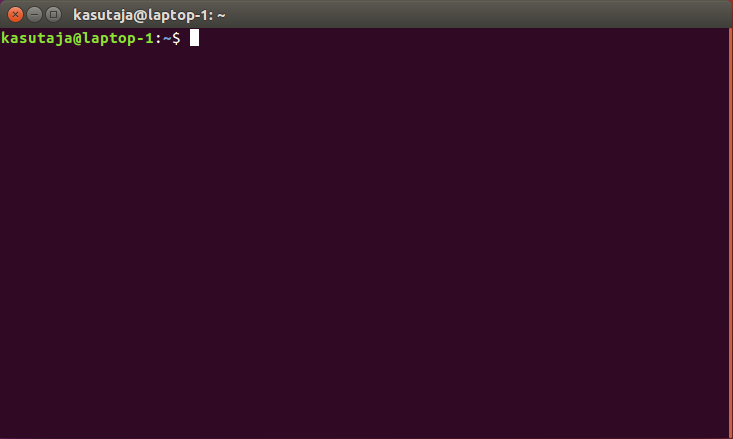
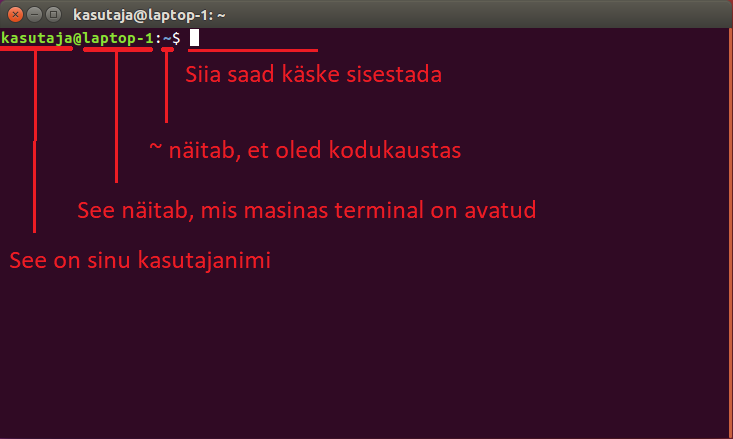
Updated lab1

diff --git a/source/labs/praktikum1.rst b/source/labs/praktikum1.rst
@@ -69,7 +69,7 @@ Kuidas kasutada Linuxit?
 
             ..
 
-    b.  Nüüd kasuta eelmises punktis *list*'i kohta õpitut, et näha, kas sinu tehtud kaust tekkis sinna. 
+    b.  Nüüd kasuta eelmises punktis *list*'i kohta õpitut, et näha, kas sinu tehtud kaust tekkis sinna.  Linuxis pääsed eelmiste käskude ligi ka kasutades üles noolt.
 
         .. figure:: ../images/lab01/image8.png
             :scale: 70 %
@@ -280,6 +280,9 @@ Kaugteel robotisse sisenemine (ssh)
 
     **Nüüdsest on see terminali aken ühenduses robotiga ja saame seal erinevaid programme käivitada.**
 
+    :red:`NB! Kuigi terminaliaken on avatud sülearvutis, siis tegelikult jooksutatakse siin sisestatud käske hoopis roboti peal, kus on samuti paigaldatud Ubuntu Linux. 
+    Seda on näha sellest, et rohelises kirjas olev arvutinimi on muutunud roboti nimeks.`
+
 Roboti ROS juhtprogrammi käivitamine
 -------------------------------------
 
@@ -314,7 +317,8 @@ Korrektselt vormistatud liikumisjuhiste andmiseks kasutame programmi, mis võima
 
         ..
 
-    :red:`NB! Sellest hetkest saab klahvivajutustega panna robotit eri suundades sõitma. ROBOTI PEATAMISEKS VAJUTA "k" KLAHVI!
+    :red:`NB! Sellest hetkest saab klahvivajutustega panna robotit eri suundades sõitma. Selleks, et klahvivajutused mõjuks, peab see terminaliaken olema aktiivne.
+    ROBOTI PEATAMISEKS VAJUTA "k" KLAHVI!
     Kui kaotad roboti üle kontrolli, siis tõsta lihtsalt robot õhku ja kutsu juhendaja!`
 
 **Sõitmiseks:**
@@ -323,5 +327,4 @@ Korrektselt vormistatud liikumisjuhiste andmiseks kasutame programmi, mis võima
         :scale: 70 %
 
         ..
-
-:red:`Mitte hoida neid nuppe väga pikalt all ja pärast igat klahvivajutust vajuta "K” tähte, et pidurdada.`
+Selleks, et programme Linuxi terminalis kinni panna, on klahvikombinatsioon Ctrl+C.
